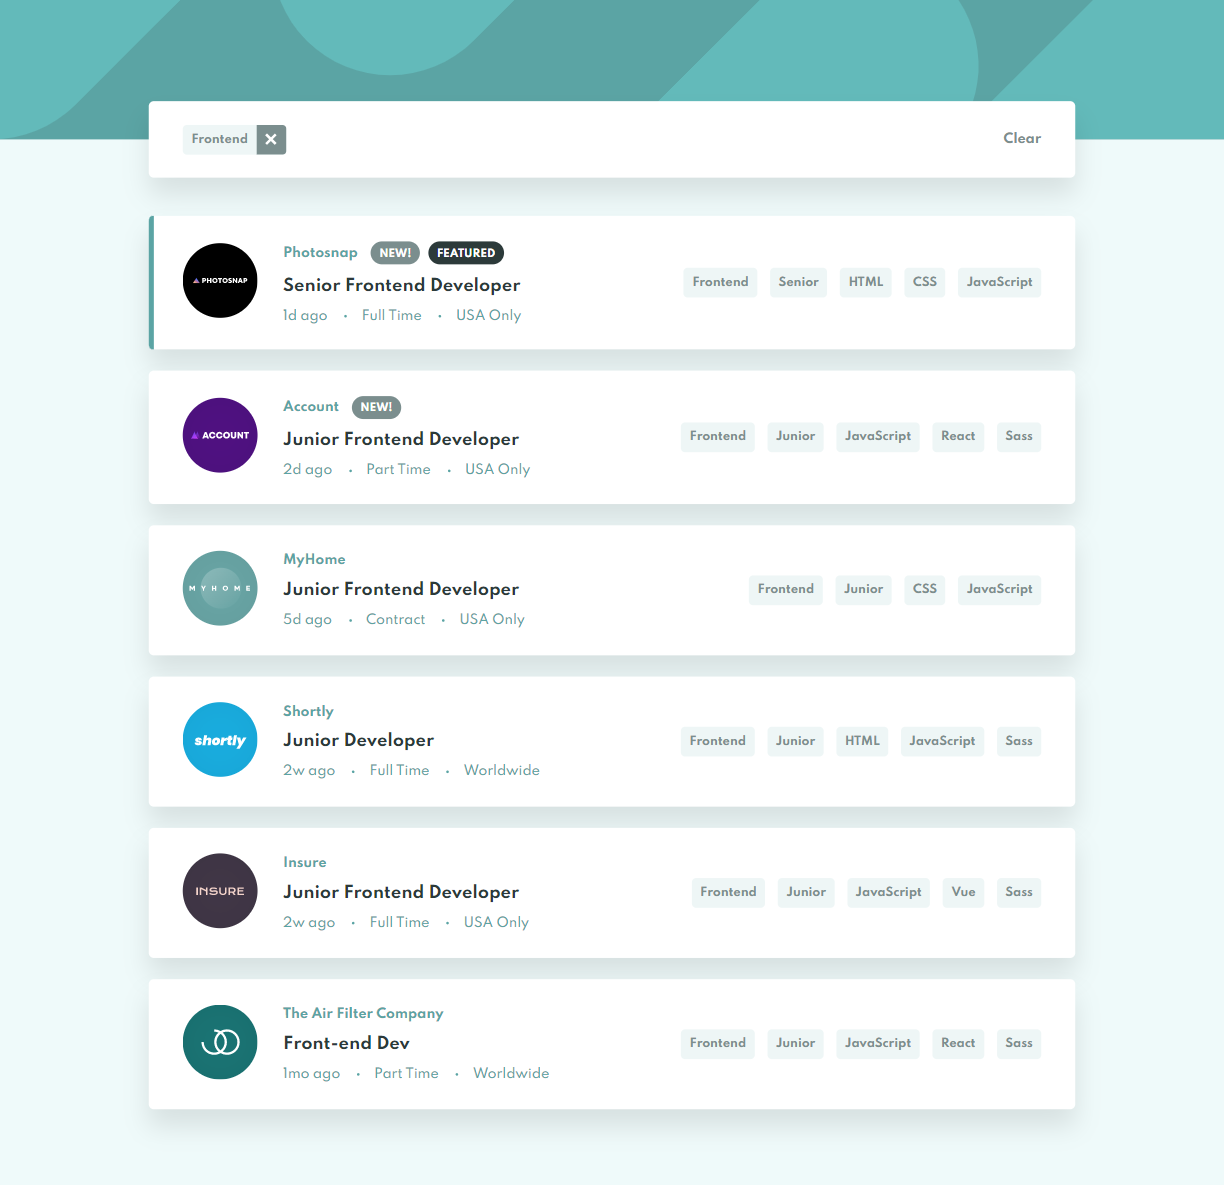
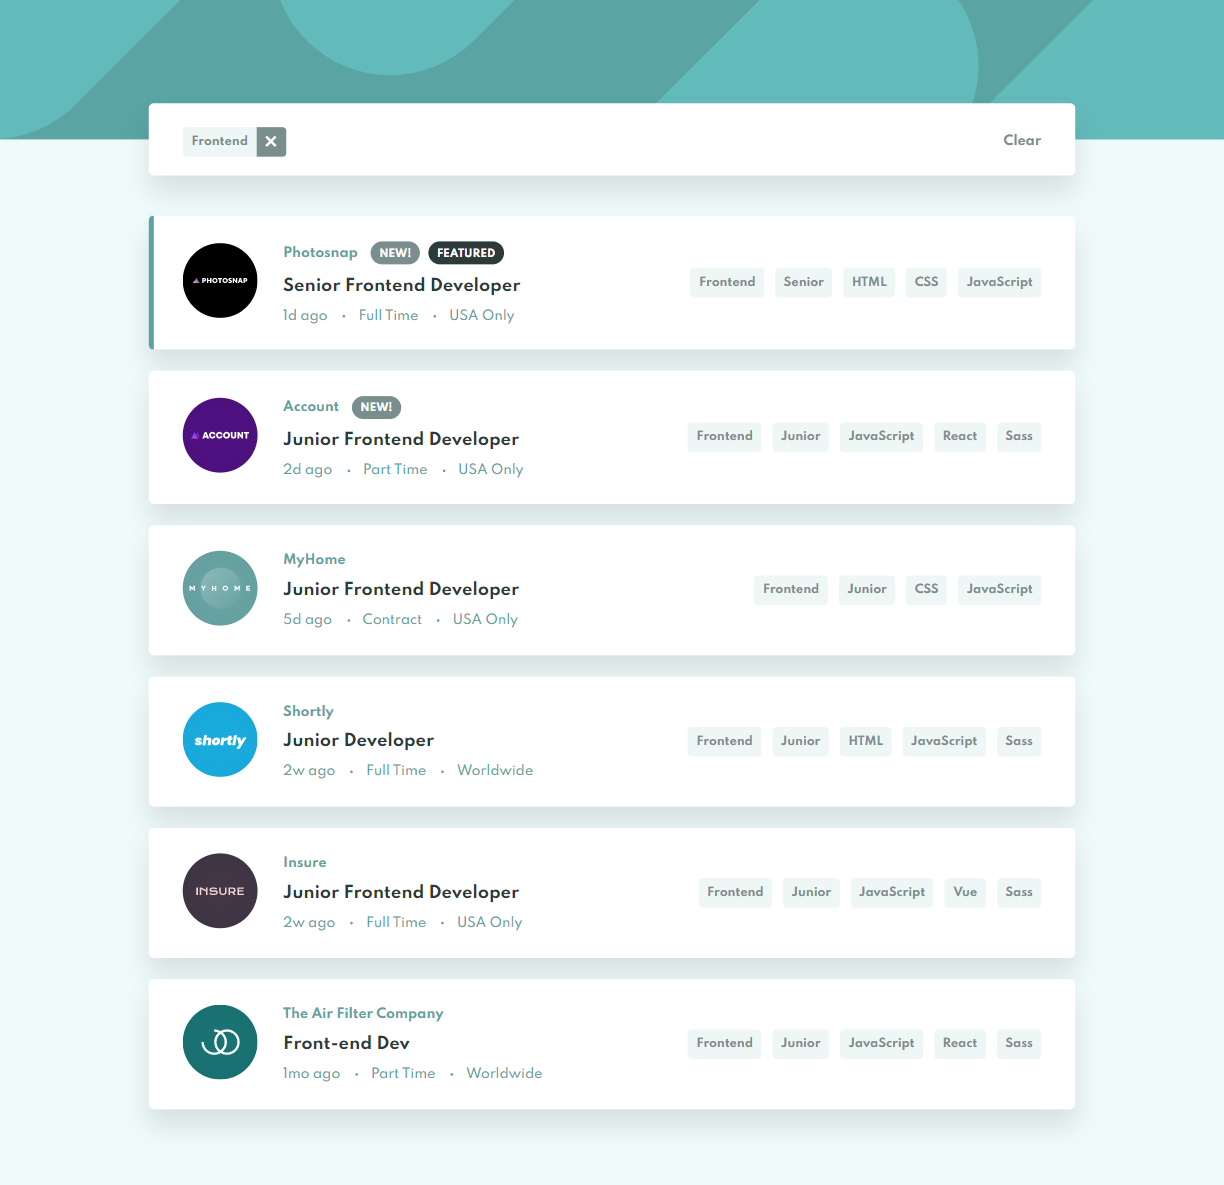
Changed some styles

diff --git a/src/styles/JobList/ItemAbout.scss b/src/styles/JobList/ItemAbout.scss
@@ -11,8 +11,8 @@
     position: relative;
     list-style: none;
     &:not(:first-child) {
-      padding-left: 20px;
-      margin-left: 20px;
+      padding-left: 18px;
+      margin-left: 18px;
 
       @media (max-width: 600px) {
         padding-left: 15px;

diff --git a/src/styles/Header/Filter.scss b/src/styles/Header/Filter.scss
@@ -2,9 +2,8 @@
   display: flex;
   align-items: center;
   justify-content: space-between;
-  min-height: 90px;
-  padding-top: 25px;
-  padding-bottom: 25px;
+  min-height: 85px;
+  padding-top: 5px;
 
   &--wrapper {
     position: absolute;

diff --git a/src/styles/JobList/ItemSkills.scss b/src/styles/JobList/ItemSkills.scss
@@ -23,7 +23,7 @@
     list-style: none;
 
     &:not(:last-child) {
-      margin-right: 15px;
+      margin-right: 13px;
     }
     @media (max-width: 1075px) {
       margin-top: 10px;
